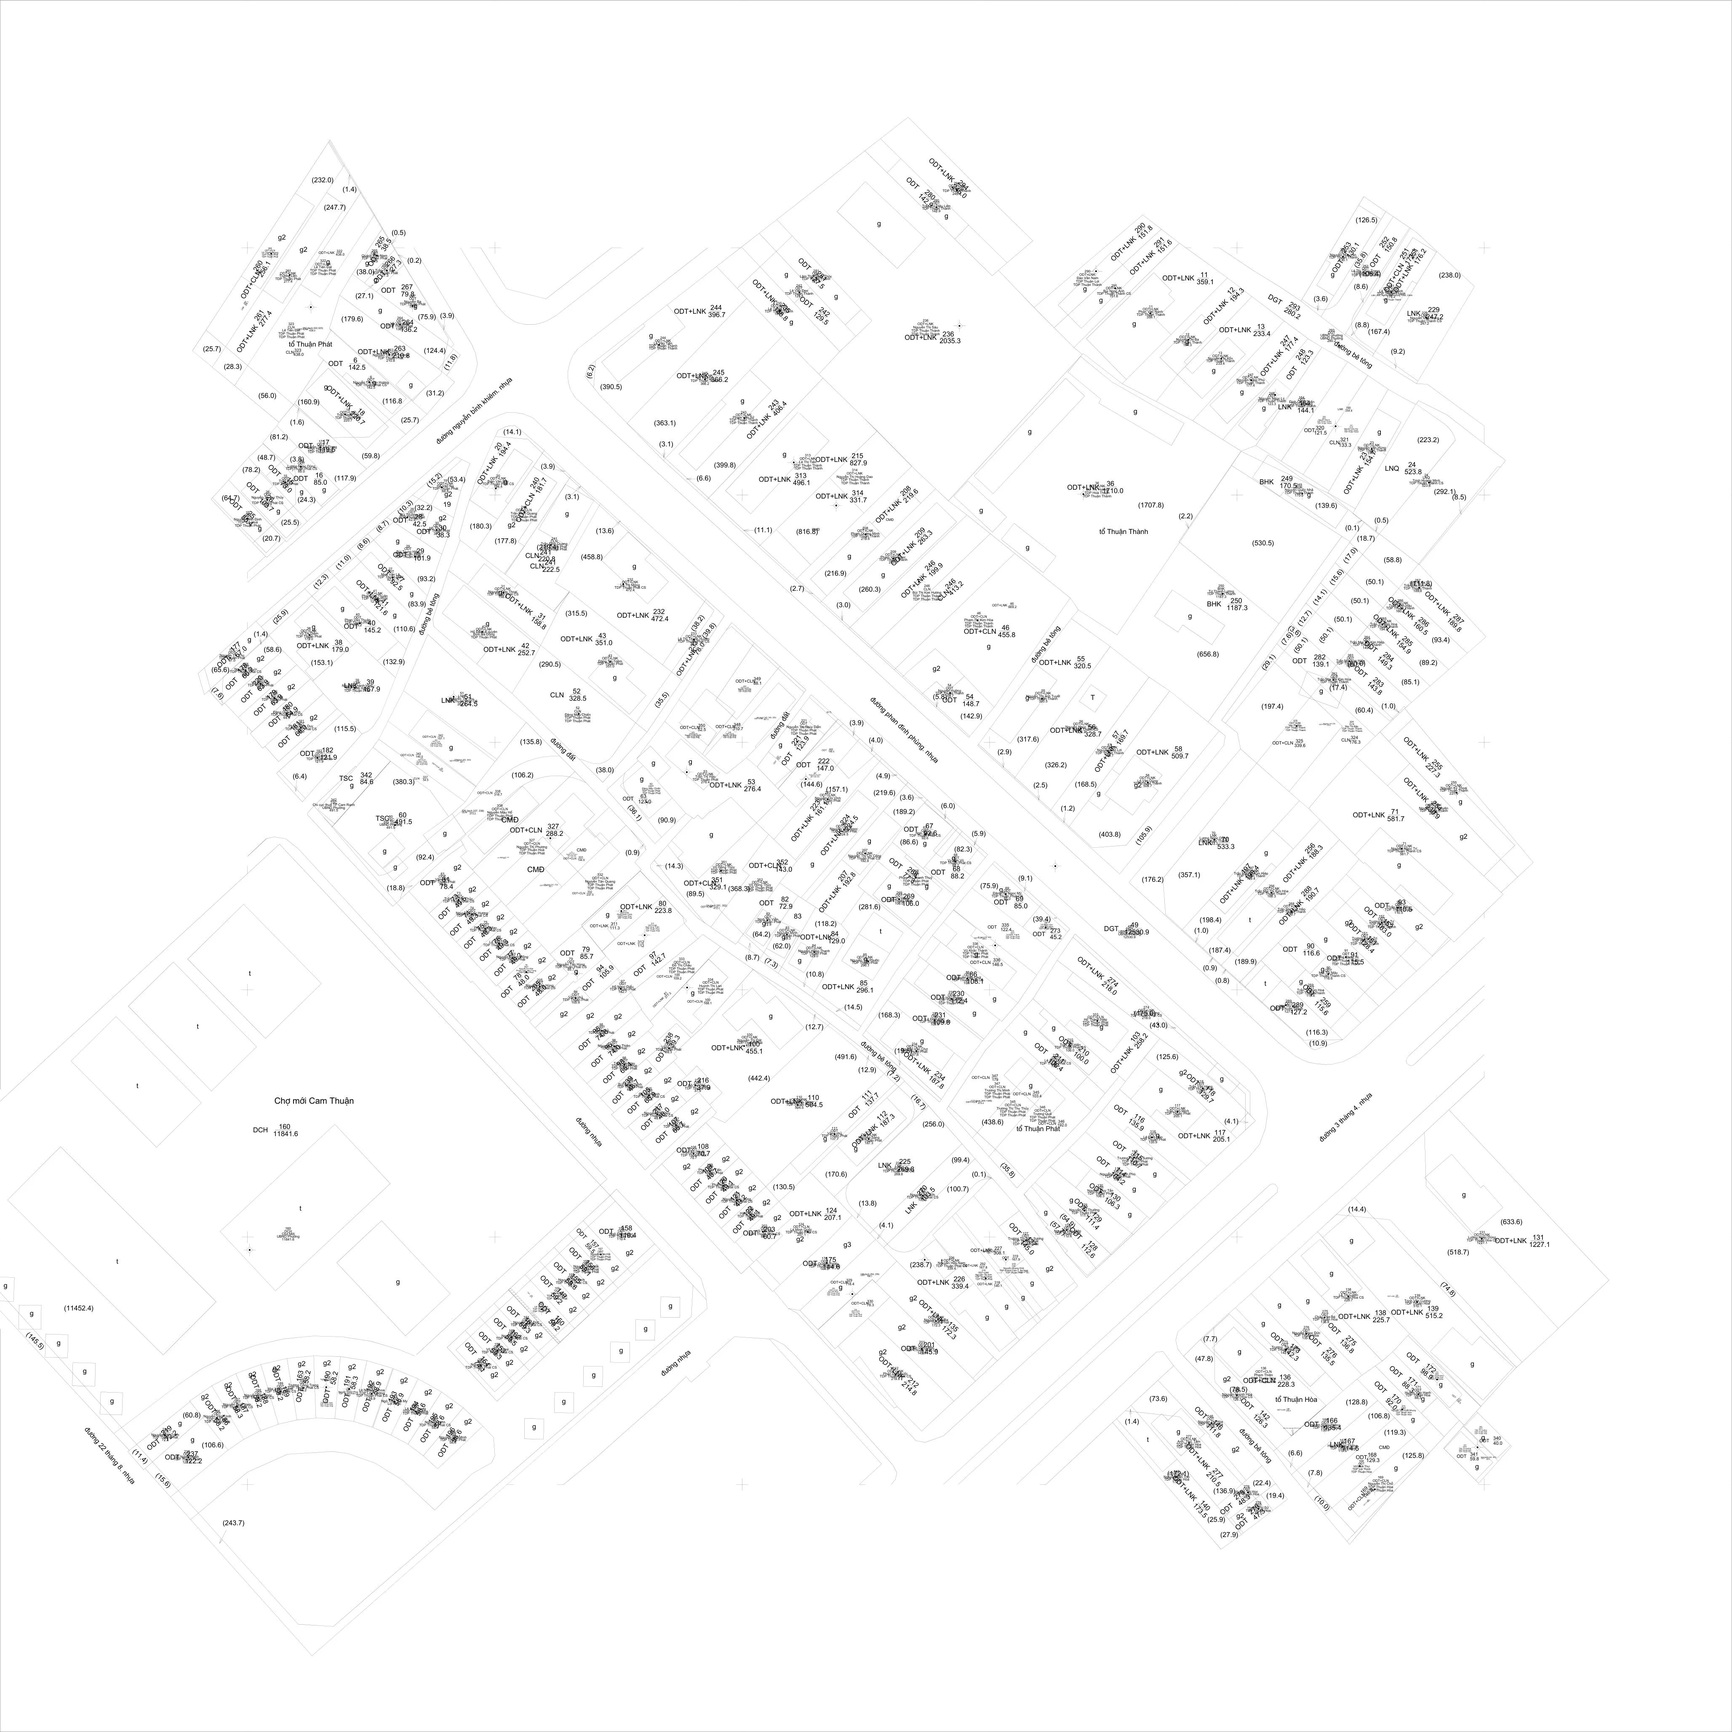
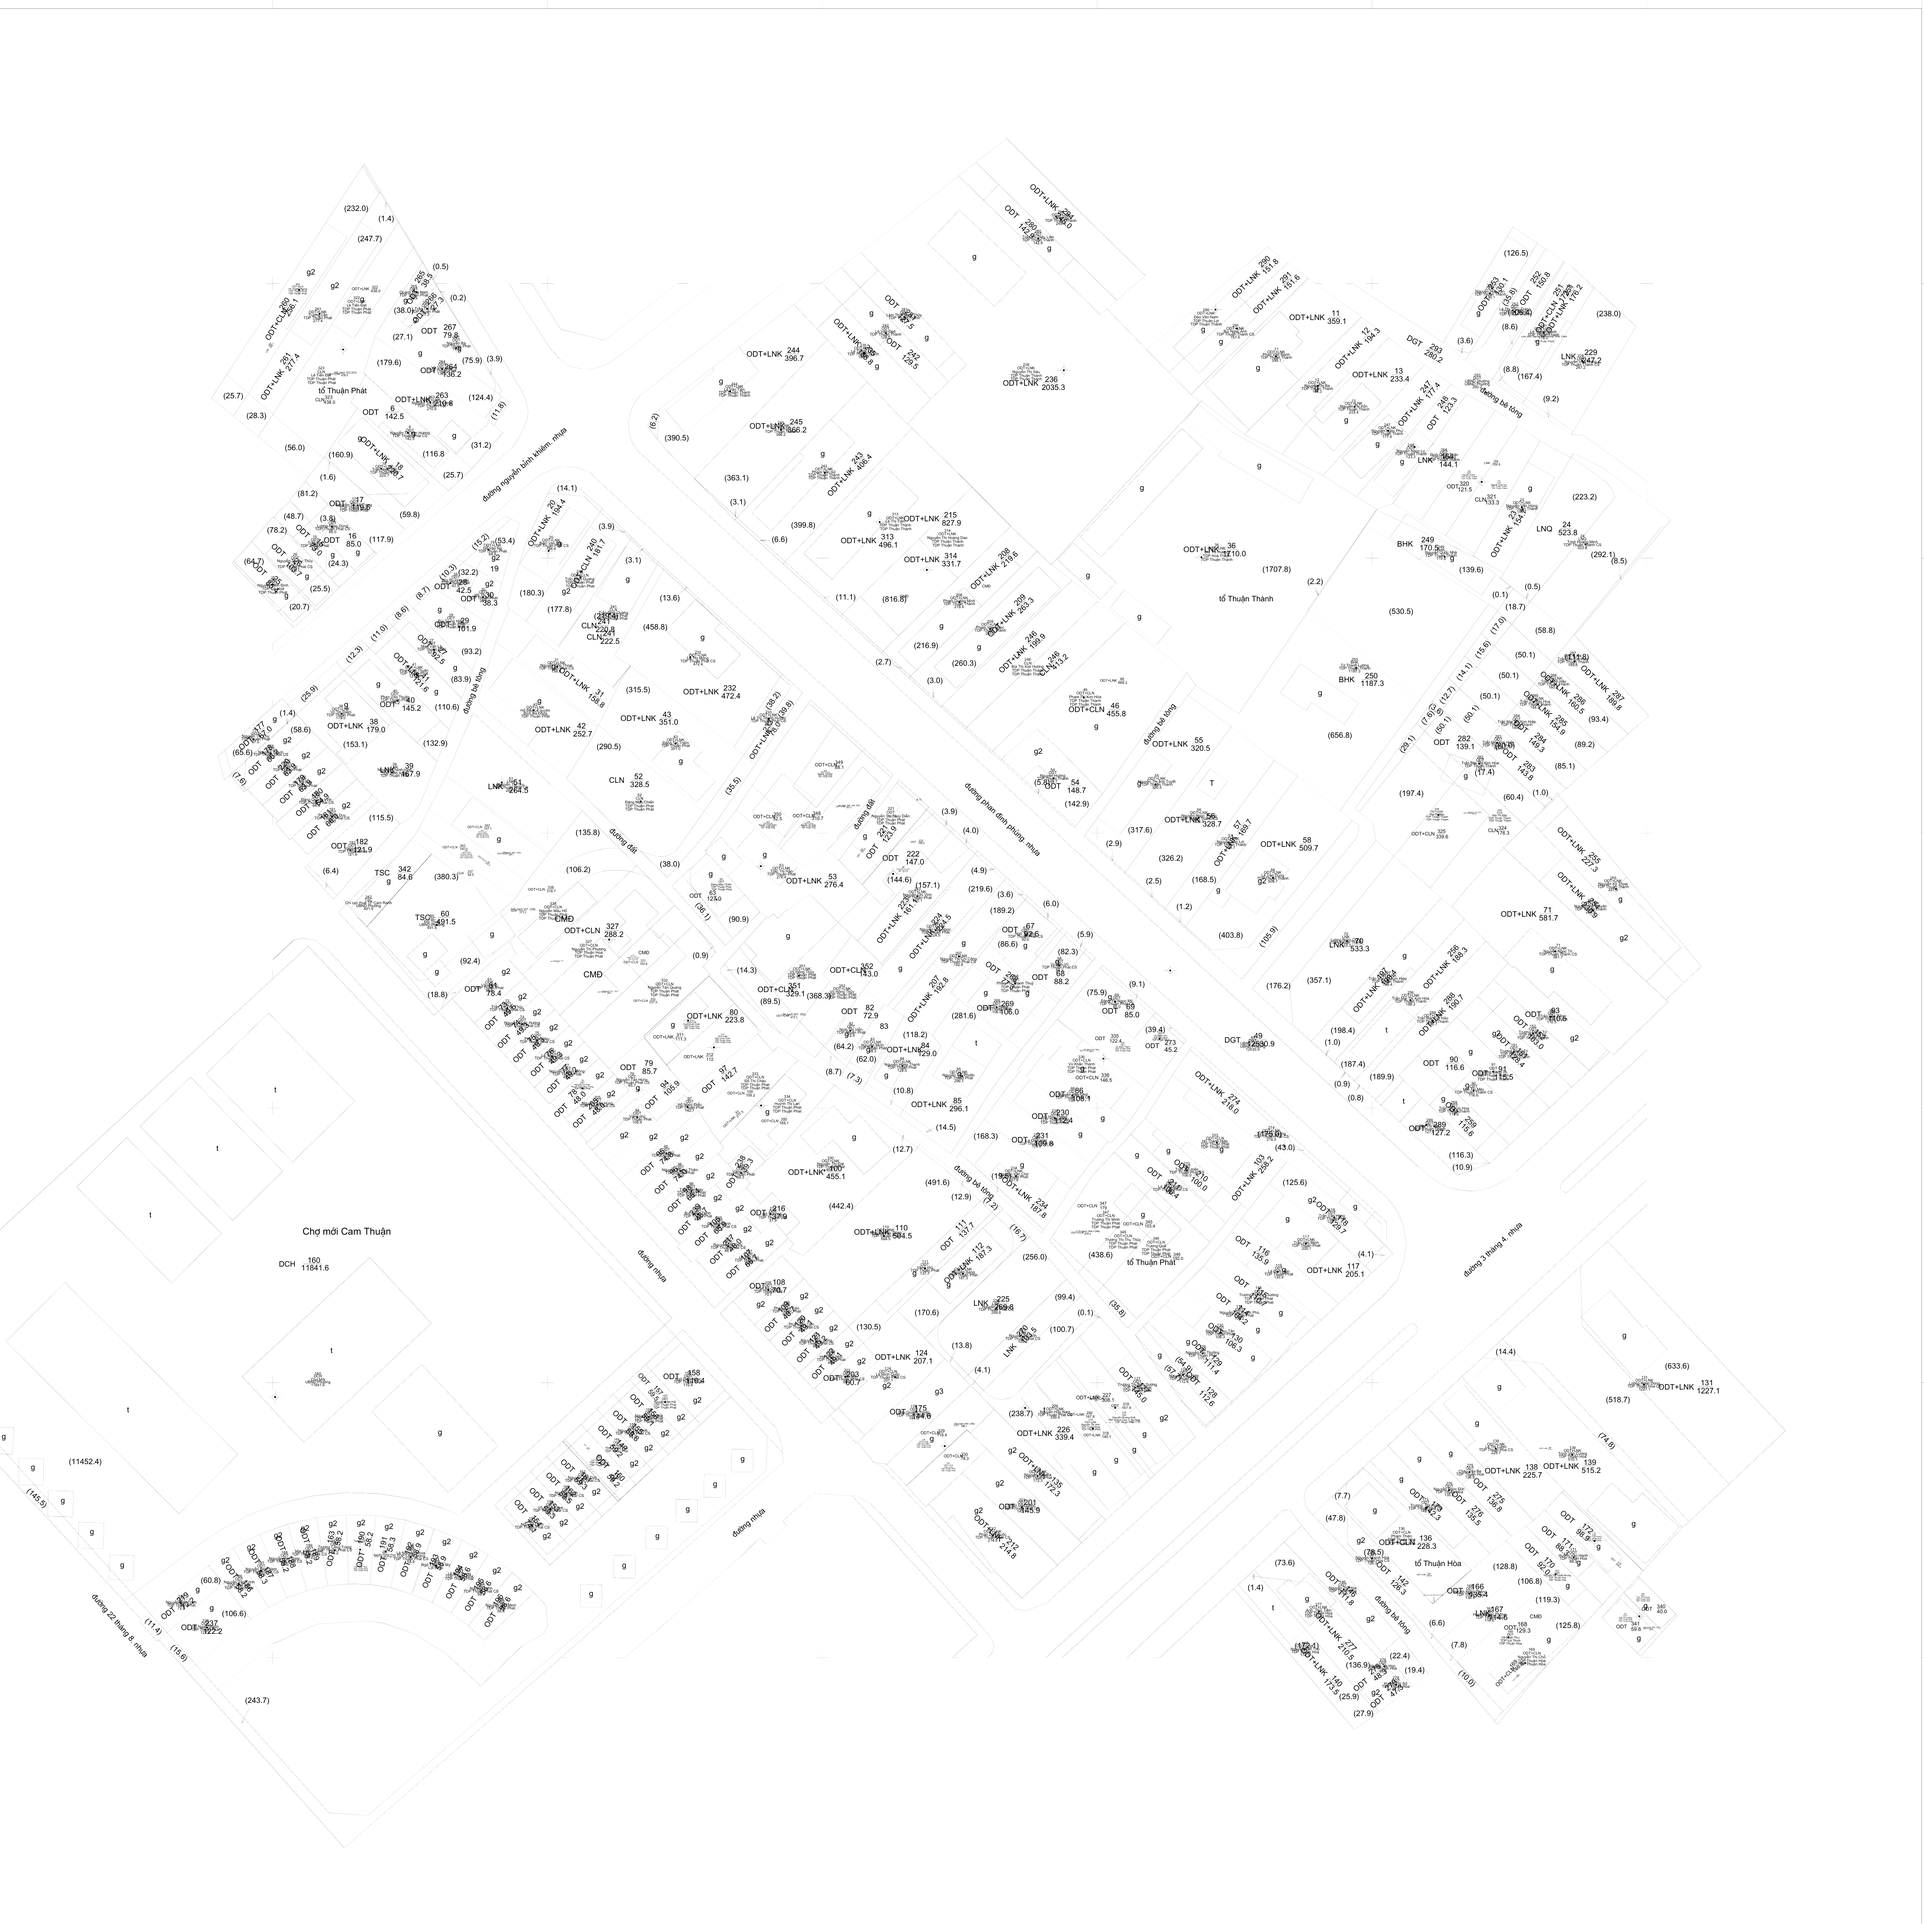
fix: Can chinh chuan toa do VN-2000 va xoay huong Bac cho Ban do Dia chinh To 21 Cam Thuan

diff --git a/src/components/Map.tsx b/src/components/Map.tsx
@@ -133,7 +133,7 @@ export default function MapLibreWrapper({ properties = [], searchLocation }: { p
         mapRef.current?.flyTo({ center: [109.1535, 11.9131], zoom: 15, duration: 2000 });
         break;
       case 'dc21':
-        mapRef.current?.flyTo({ center: [109.1508, 11.9142], zoom: 17.5, duration: 2000 });
+        mapRef.current?.flyTo({ center: [109.1526, 11.9132], zoom: 17.5, duration: 2000 });
         break;
     }
   };
@@ -314,10 +314,10 @@ export default function MapLibreWrapper({ properties = [], searchLocation }: { p
           type="image" 
           url="/Map/dc21_map.webp"
           coordinates={[
-            [109.149205, 11.915827], // Top-Left (NW)
-            [109.152418, 11.915817], // Top-Right (NE)
-            [109.152407, 11.912653], // Bottom-Right (SE)
-            [109.149195, 11.912663], // Bottom-Left (SW)
+            [109.150985, 11.914792], // Top-Left (NW)
+            [109.154198, 11.914782], // Top-Right (NE)
+            [109.154187, 11.911618], // Bottom-Right (SE)
+            [109.150975, 11.911628], // Bottom-Left (SW)
           ]}
         >
           <Layer 
@@ -750,7 +750,7 @@ export default function MapLibreWrapper({ properties = [], searchLocation }: { p
                   type="button"
                   onClick={() => {
                     if (opacityDc21 === 0) setOpacityDc21(0.7);
-                    mapRef.current?.flyTo({ center: [109.1508, 11.9142], zoom: 17.5, duration: 2000 });
+                    mapRef.current?.flyTo({ center: [109.1526, 11.9132], zoom: 17.5, duration: 2000 });
                   }}
                   className="px-2 py-0.5 bg-rose-50 text-rose-700 hover:bg-rose-100 rounded text-[10px] font-medium border border-rose-200 flex items-center gap-0.5"
                 >
